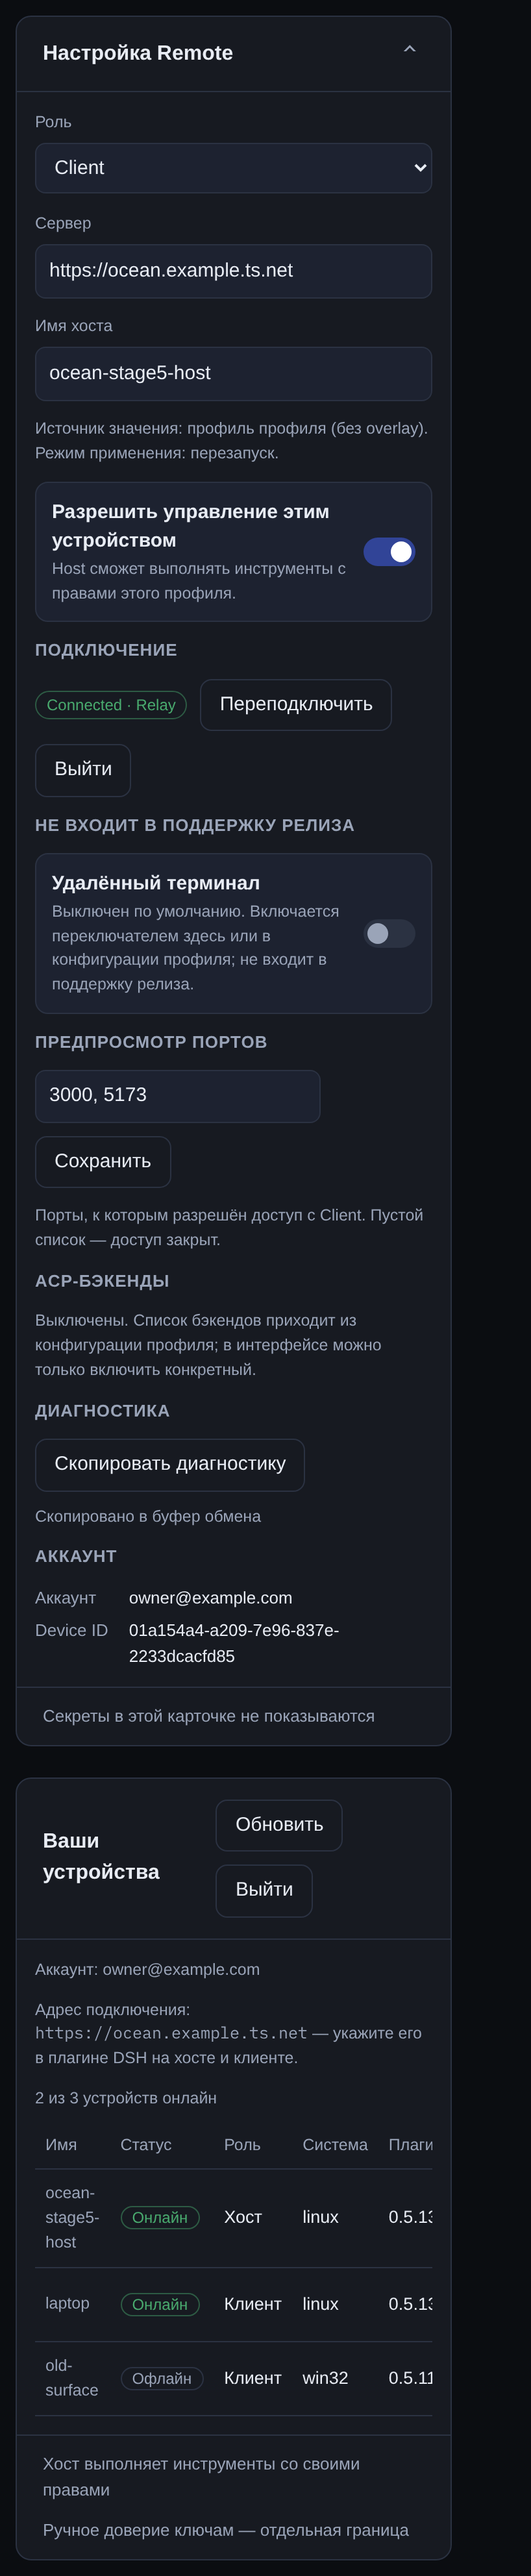
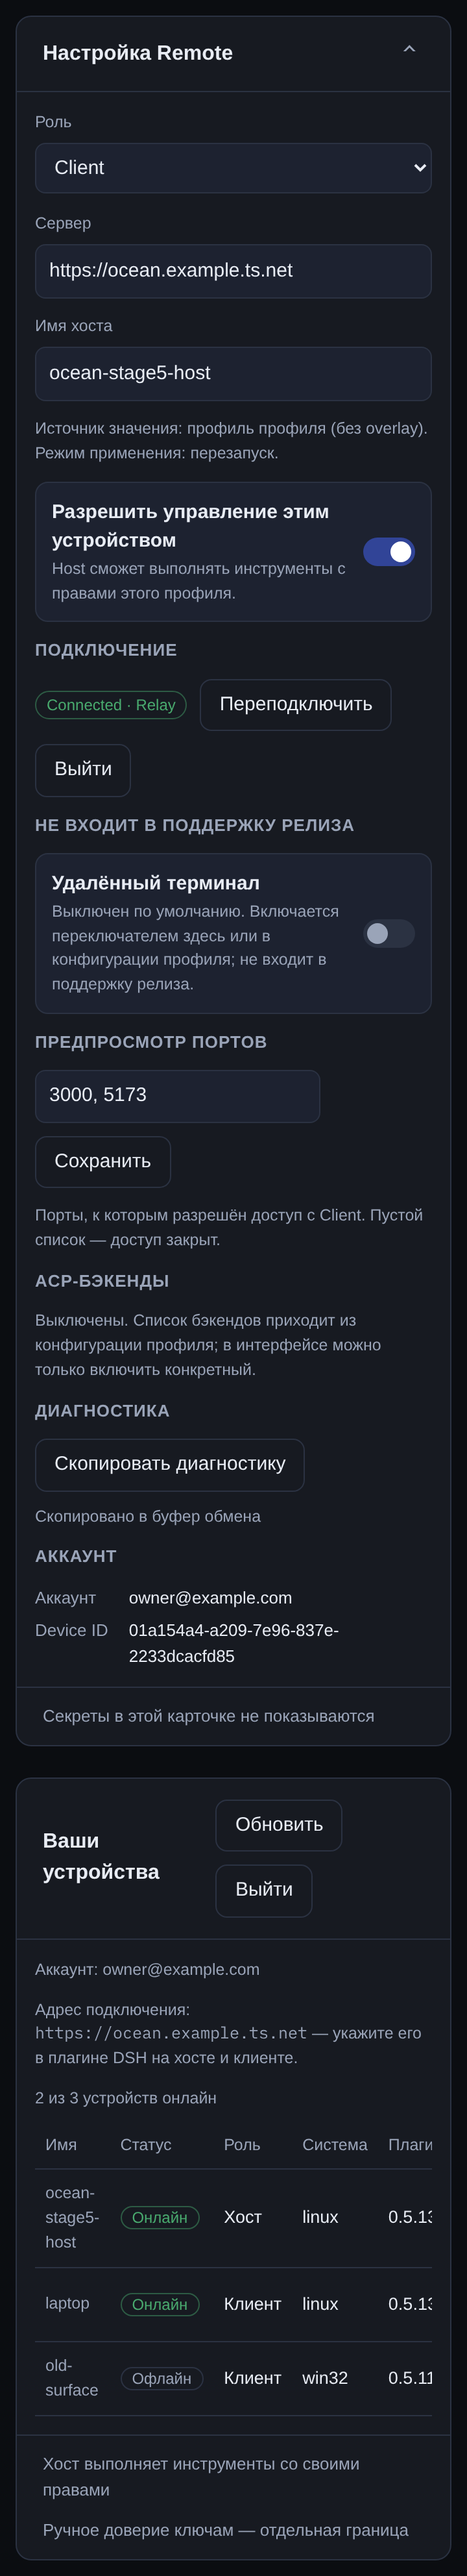
test: check mockup layout and accessibility at three widths

diff --git a/docs/design/fork/mockups/settings-and-ocean.html b/docs/design/fork/mockups/settings-and-ocean.html
@@ -45,7 +45,8 @@
   .notice strong{display:block;color:var(--ink);margin-bottom:2px}
   .meta{display:grid;grid-template-columns:max-content 1fr;gap:6px 16px;font-size:13px;color:var(--muted);margin:0}
   .meta dt{color:var(--muted)} .meta dd{margin:0;color:var(--ink);overflow-wrap:anywhere}
-  .table-scroll{overflow-x:auto;max-width:100%}
+  .table-scroll{overflow-x:auto;max-width:100%;min-width:0;position:relative}
+  .card__body > *{min-width:0}
   table{width:100%;border-collapse:collapse;font-size:13.5px}
   caption{text-align:left;color:var(--muted);font-size:12.5px;padding-bottom:8px}
   th,td{text-align:left;padding:9px 8px;border-bottom:1px solid var(--border);white-space:nowrap}

diff --git a/docs/design/fork/README.ru.md b/docs/design/fork/README.ru.md
@@ -17,7 +17,7 @@
 
 - **Макеты desktop и узкого экрана сделаны** для двух экранов: [карточка Remote и панель «Ключи»](mockups/README.ru.md) (1440 и 360). Экраны настроек и консоли Ocean — следующая итерация после согласования направления.
 - Токены вынесены не полностью: плагин использует native-темы, у консоли Ocean свои переменные; часть семантических токенов (успех/предупреждение/опасность) ещё не введена.
-- Контраст палитры консоли Ocean проверяется автоматически (`pnpm check:contrast`, шаг CI, 26 пар). Поверхности плагина на токенах native DSH этим не покрыты. Адаптив по-прежнему проверяется только глазами по макетам.
+- Контраст палитры консоли Ocean проверяется автоматически (`pnpm check:contrast`, шаг CI, 26 пар). Поверхности плагина на токенах native DSH этим не покрыты. Адаптив макетов проверяется скриптом `pnpm check:mockups` (360/768/1440, только при установленном Playwright); живой интерфейс — по-прежнему глазами.
 - **Лицензии ассетов:** в `packages/plugin/src/client/icons.ts` лежат base64-PNG иконок сторонних вендоров без указания источника и лицензии; `THIRD_PARTY_NOTICES` покрывает только серверные зависимости. Нужно либо задокументировать, либо заменить своими SVG (задача шага 1).
 - Темы: поддержка светлой/тёмной темы native DSH **не проверялась** аудитом.
 

diff --git a/docs/CHANGELOG.md b/docs/CHANGELOG.md
@@ -1,5 +1,7 @@
 ## Unreleased
 
+- Форк: `pnpm check:mockups` проверяет макеты на 360/768/1440 (нет горизонтального скролла, SHA не обрезан, доступные имена, видимый фокус); попутно исправлено переполнение таблицы в макете консоли.
+
 - Форк: добавлена автоматическая проверка контраста палитры консоли (обе темы, 26 пар, включая границы контролов и фокус), шаг CI и тест; для границ интерактивных элементов введён токен `--border-strong`.
 
 - Форк: сужено окно TOCTOU при чтении файла workspace — открытие не следует симлинкам и сверяет inode, поэтому подмена файла на ссылку отклоняется. Подмена через hardlink или родительский каталог остаётся теоретически возможной; добавлен документ о поведении сервера — presence, сессия в памяти, лимиты за прокси.

diff --git a/docs/design/fork/mockups/README.ru.md b/docs/design/fork/mockups/README.ru.md
@@ -23,6 +23,10 @@
 - У кнопки «Подтвердить ключ» показано disabled-состояние, у уведомления об обрыве — номер попытки из бюджета 6.
 - Подтверждение снятия доверия нарисовано отдельной строкой; в продукте сейчас `window.confirm`.
 
+## Как проверяется
+
+`pnpm check:mockups` рендерит каждый макет на 360/768/1440 и проверяет: нет горизонтального скролла страницы, поля SHA содержат ровно 64 символа и не обрезаны, у контролов есть доступные имена, у первой кнопки видимый фокус, есть заголовки разделов. Нужен Playwright, поэтому шаг помечен как **локальная проверка дизайна**: без него скрипт печатает `SKIPPED` и не делает вид, что проверка прошла.
+
 ## Что проверено по макету
 
 - Полный SHA-256 переносится и **не обрезается** на 1440, 768 и 360.
